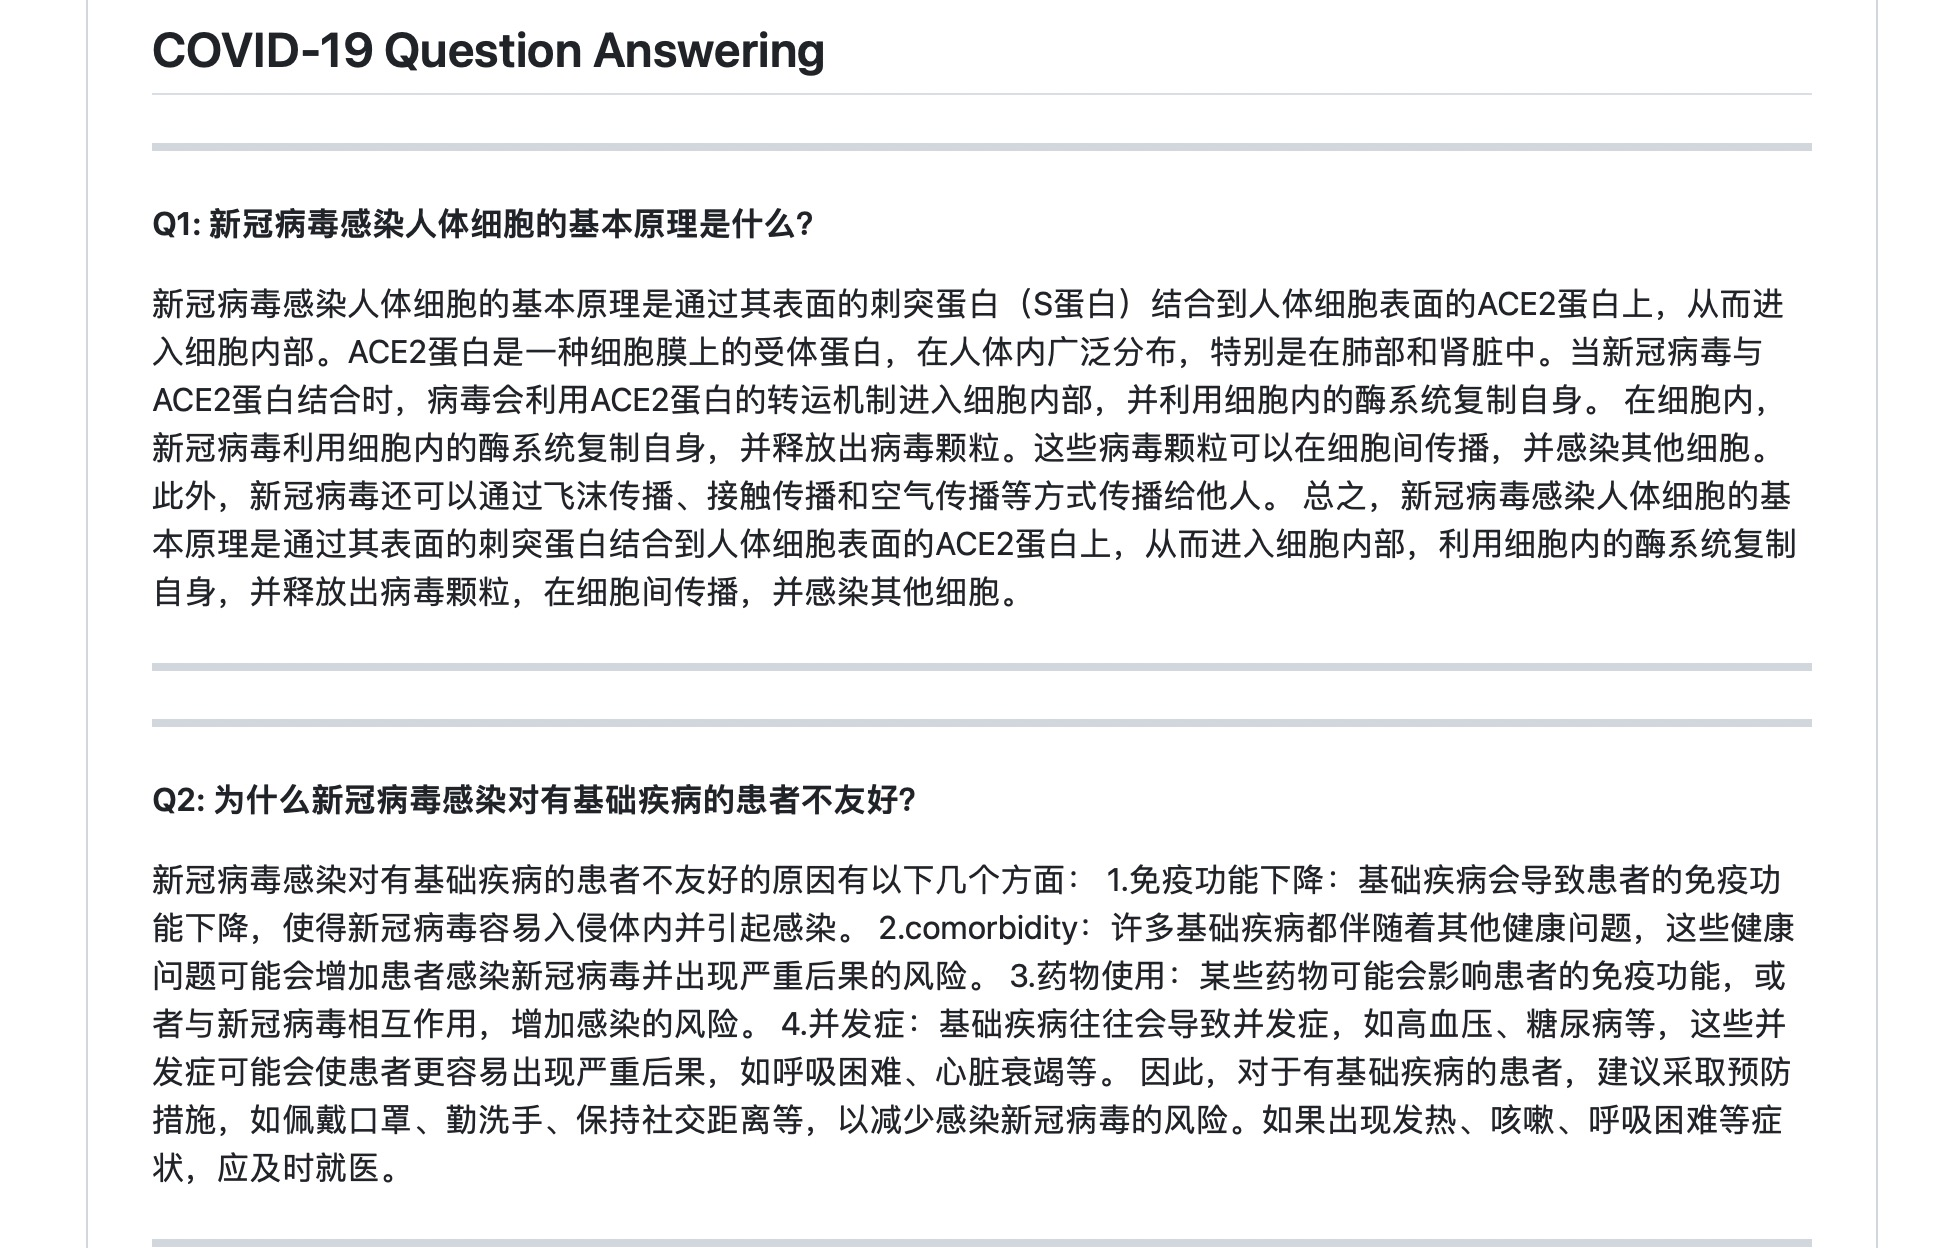
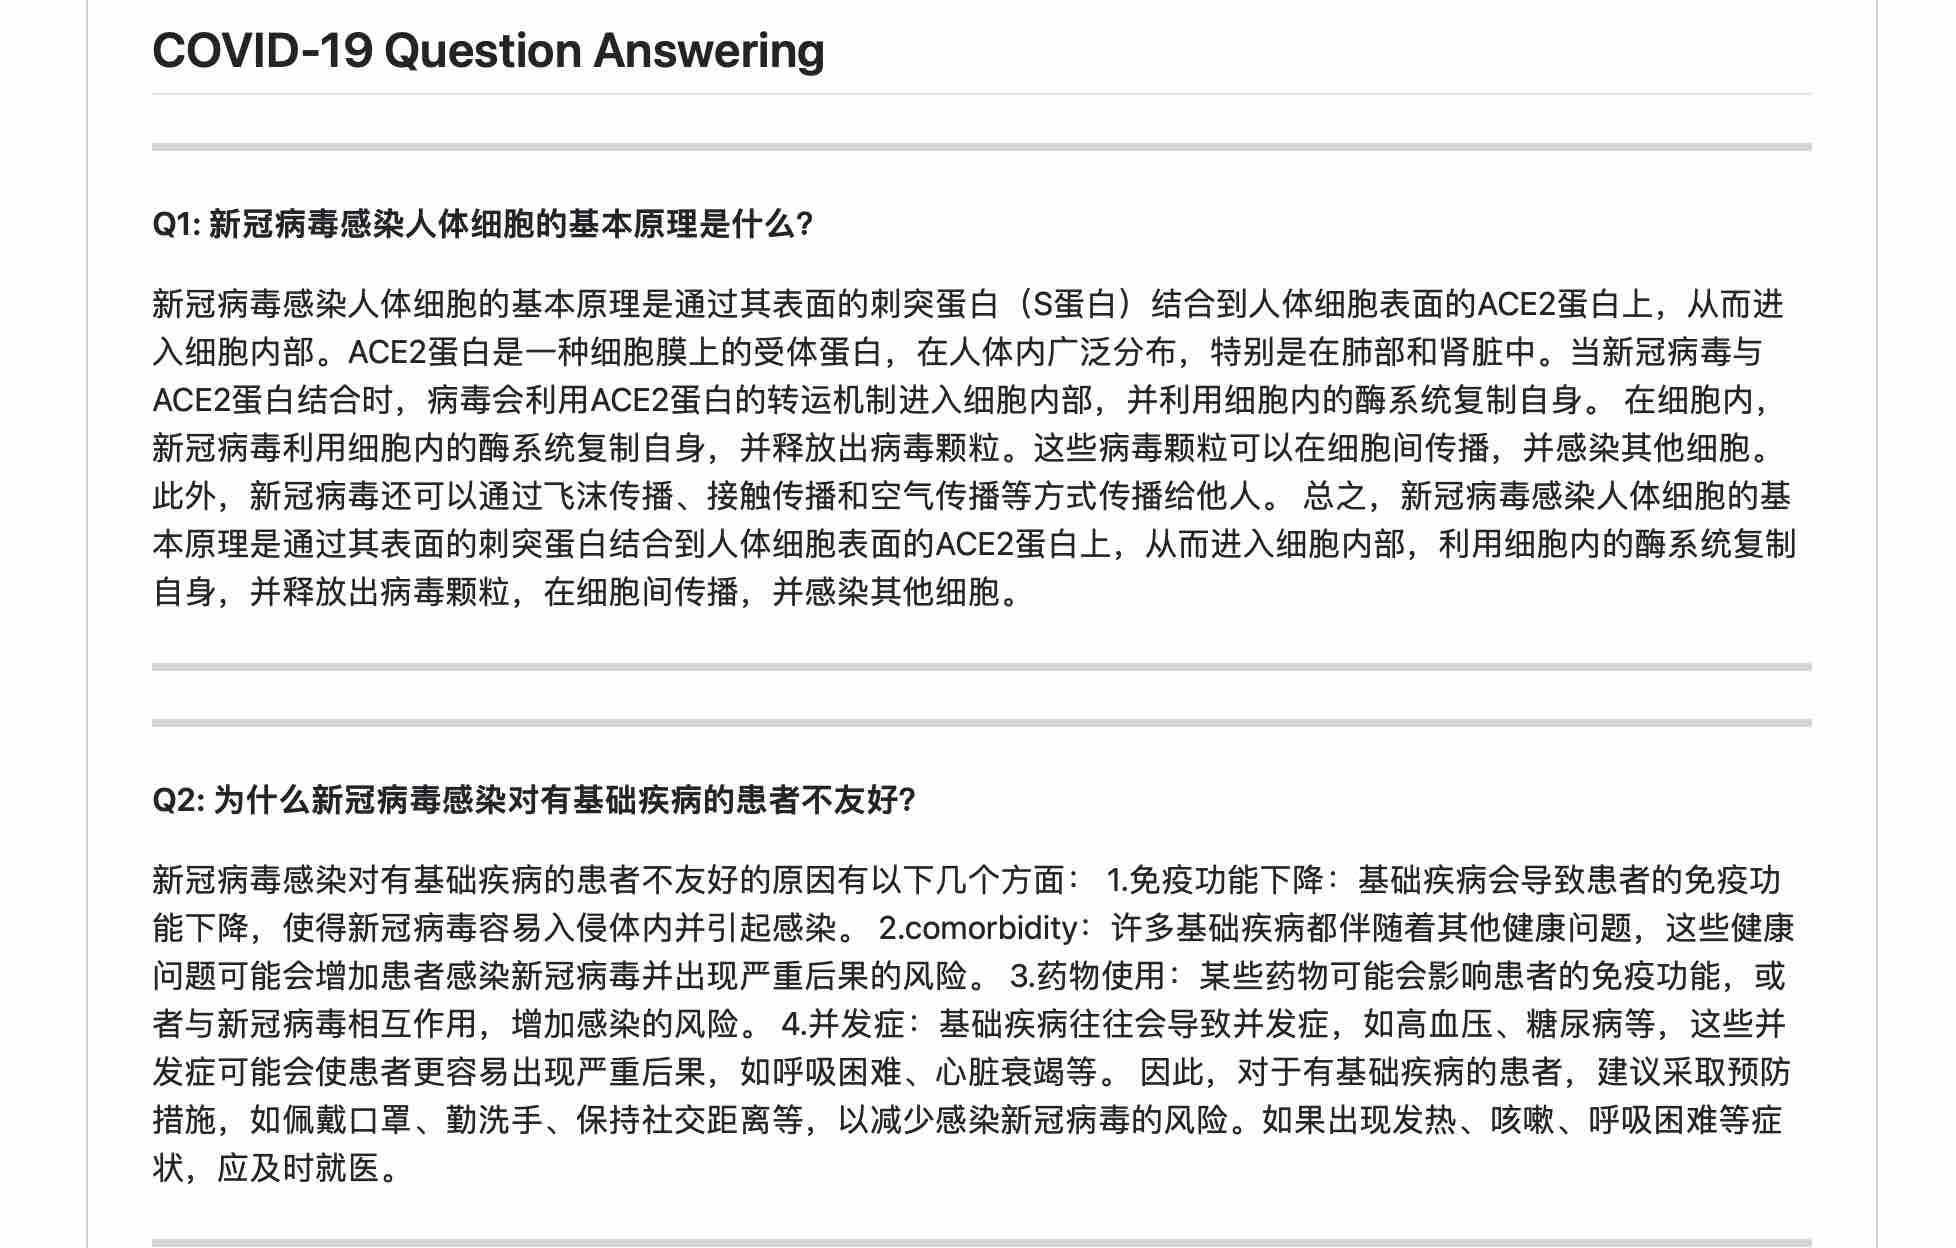
change to smaller pic

diff --git a/README.md b/README.md
@@ -93,7 +93,7 @@
 
 [openmedlab/XrayPULSE](https://github.com/openmedlab/XrayPULSE)
 
-![image](./pics/XrayPULSE.png)
+![image](./pics/XrayPULSE.jpg)
 
 **PULSE-COVID-19**
 
